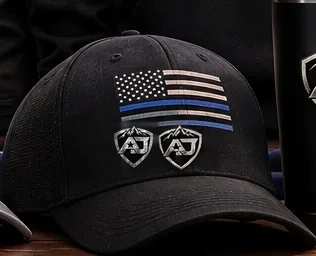
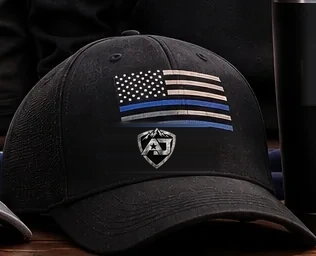
Clean up remaining AJ Legacy marks on merchandise previews

Changed region(s): [[0.3418, 0.4688, 0.6551, 0.6875], [0.9399, 0.1875, 1.0, 0.4062]]

diff --git a/assets/storefront.js b/assets/storefront.js
@@ -276,7 +276,7 @@ function boardControls(item,photo,form){
 }
 
 const boardFamilies={
- 'gym-chest-logo-tee':{title:'AJ Legacy Mountain Chest Logo Tee',label:'T-shirt style',options:[['gym-chest-logo-tee','Training tee'],['memorial-chest-logo-tee','Classic tee']]},
+ 'gym-chest-logo-tee':{title:'AJ Legacy Shield Chest Logo Tee',label:'T-shirt style',options:[['gym-chest-logo-tee','Training tee'],['memorial-chest-logo-tee','Classic tee']]},
  'shield-joggers':{title:'AJ Shield Bottoms',label:'Garment style',options:[['shield-joggers','Joggers'],['shield-shorts','Shorts']]},
  'shield-trucker':{title:'AJ Shield Cap',label:'Cap style',options:[['shield-trucker','Black trucker'],['camo-shield-cap','Camo']]},
  'memorial-shield-cap':{title:'Memorial AJ Shield Cap',label:'Cap style',options:[['memorial-shield-cap','Black embroidered'],['memorial-patch-cap','Gray leather patch']]},
